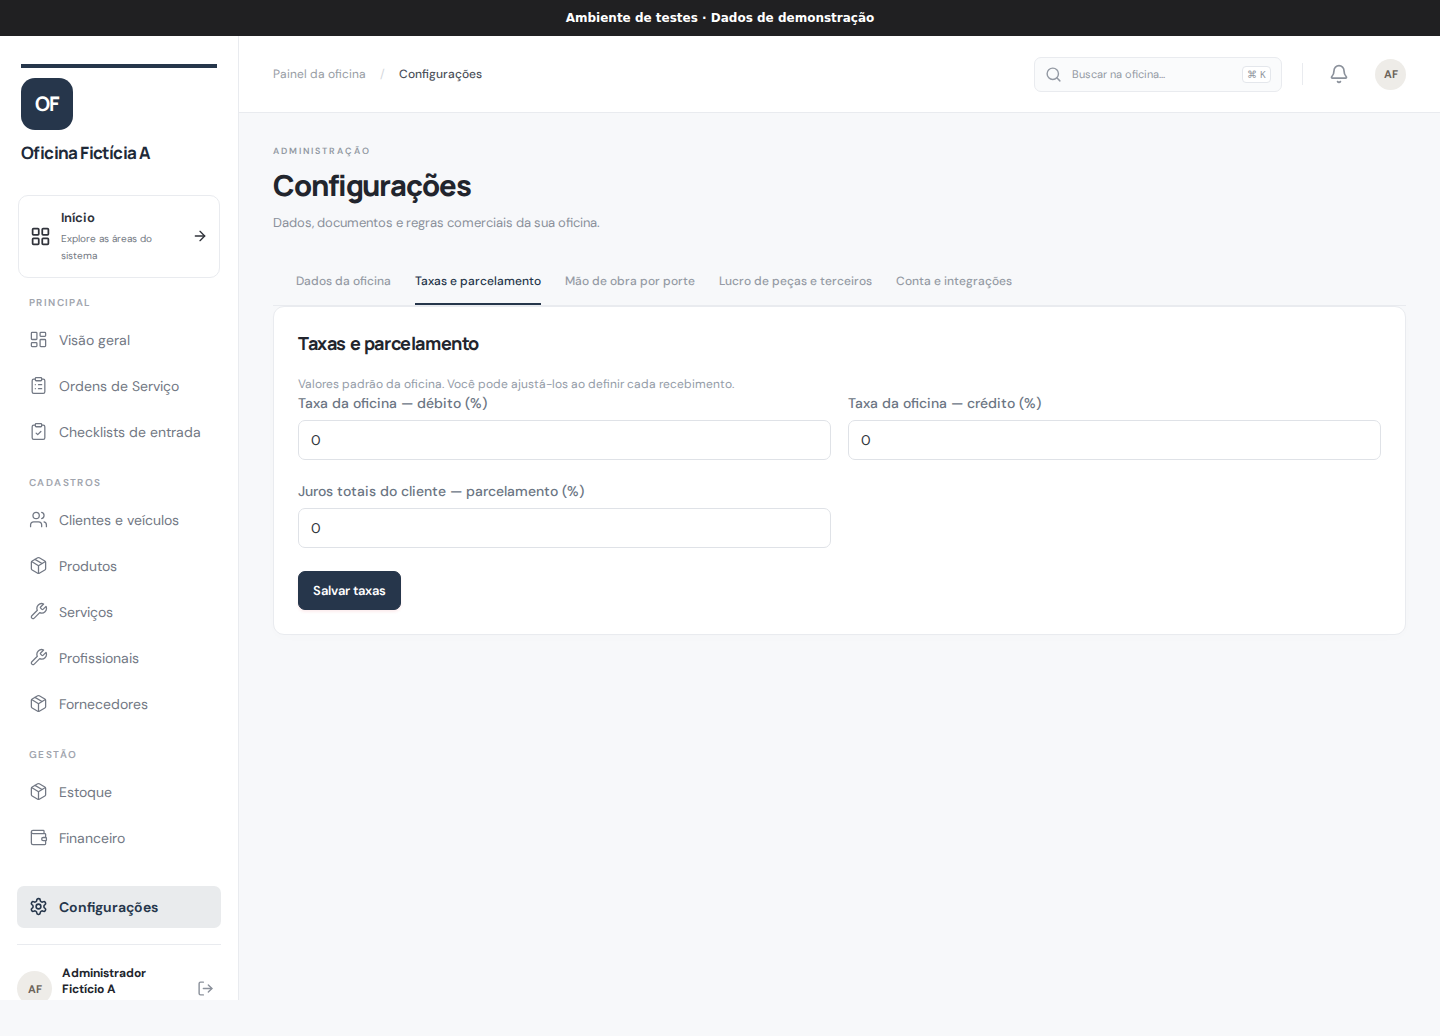
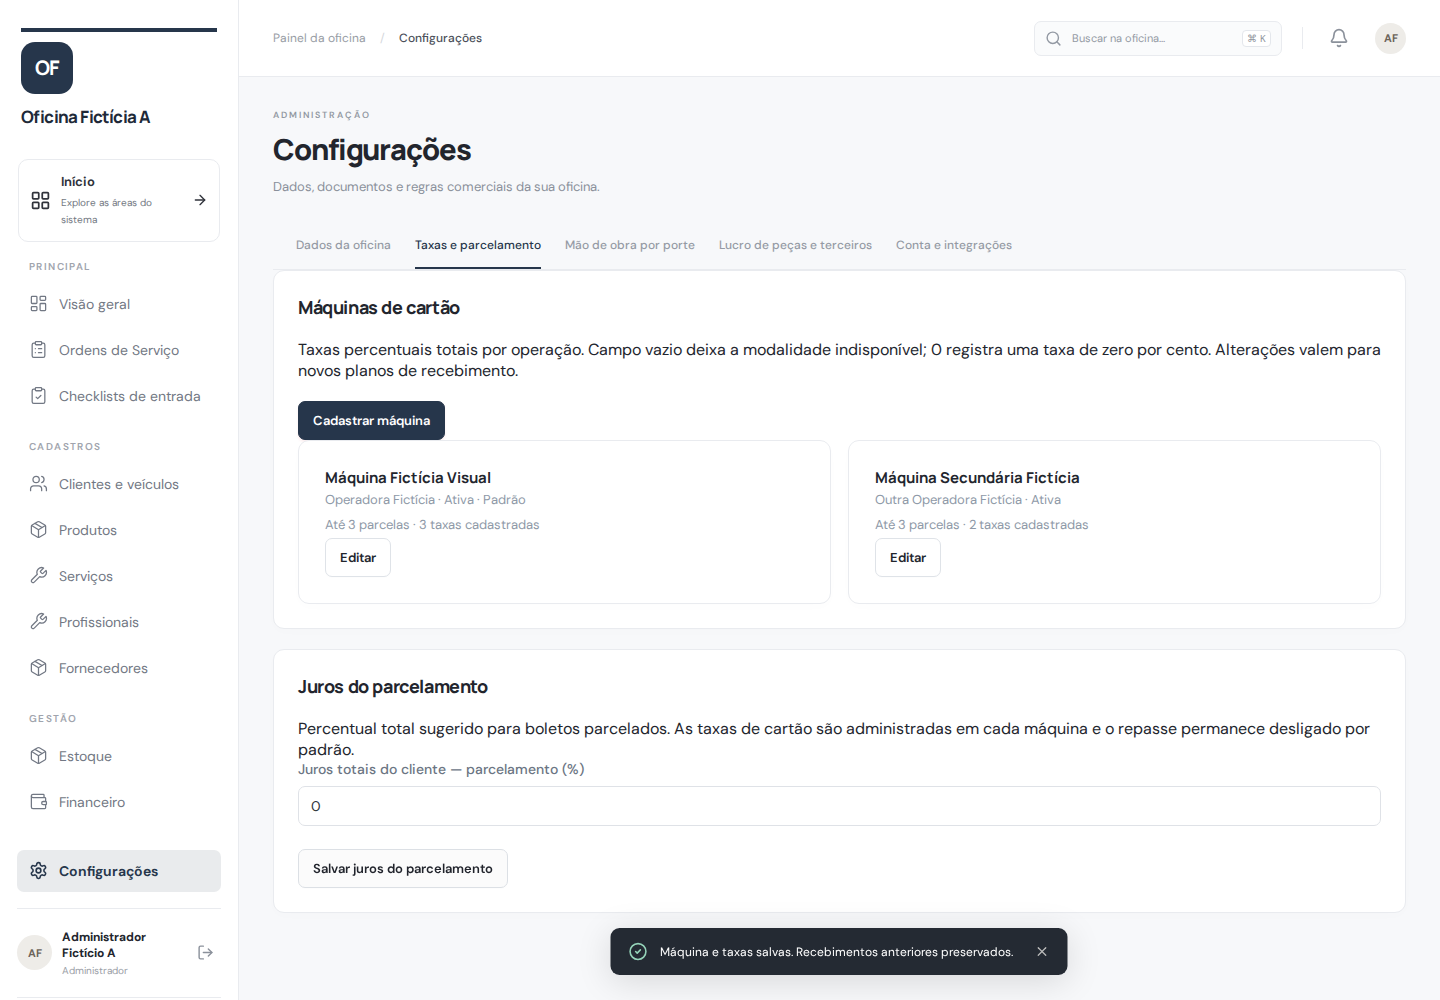
docs(ops-002): record reviewed desktop/mobile captures and development index

diff --git a/docs/mapeamento-visual/CHECKLIST.md b/docs/mapeamento-visual/CHECKLIST.md
@@ -36,7 +36,7 @@ Estados: capturada, pendente, bloqueada e não aplicável.
 | estoque-movimentacoes | Estoque | Movimentações de estoque — Nenhuma movimentação registrada na demonstração. | [`capturas/10-estoque/movimentacoes.png`](./capturas/10-estoque/movimentacoes.png) | capturada | 2026-10-22 | não registrado | Captura real com dados fictícios feita em 22/10/2026. O commit de origem não foi registrado; recaptura Playwright e atualização do commit estão pendentes. |
 | fornecedores-lista | Fornecedores | Fornecedores — Lista vazia na demonstração. | [`capturas/11-fornecedores/lista-fornecedores.png`](./capturas/11-fornecedores/lista-fornecedores.png) | capturada | 2026-10-22 | não registrado | Captura real com dados fictícios feita em 22/10/2026. O commit de origem não foi registrado; recaptura Playwright e atualização do commit estão pendentes. |
 | config-dados-oficina | Configurações da oficina | Dados da Oficina Fictícia A — Identificação, endereço efetivo, navegação por seções e prévia de documento. | [`capturas/14-configuracoes/dados-oficina-a.png`](./capturas/14-configuracoes/dados-oficina-a.png) | capturada | 2026-11-01 | 56b226764ee6420a52bdff3a41bd459113618460 | — |
-| config-geral-taxas | Configurações da oficina | Taxas e parcelamento — Taxas padrão, precedência por parcela e manutenção administrativa. | [`capturas/14-configuracoes/geral-e-taxas.png`](./capturas/14-configuracoes/geral-e-taxas.png) | capturada | 2026-11-01 | 56b226764ee6420a52bdff3a41bd459113618460 | — |
+| config-geral-taxas | Configurações da oficina | Taxas e parcelamento — Máquinas independentes, padrão da oficina e juros de parcelamento. | [`capturas/14-configuracoes/geral-e-taxas.png`](./capturas/14-configuracoes/geral-e-taxas.png) | capturada | 2026-11-01 | 26770cc4da2ccbf9de3620882b0a87066fdce927 | — |
 | config-mao-obra | Configurações da oficina | Mão de obra por porte — Valores de referência sem alteração. | [`capturas/14-configuracoes/mao-de-obra.png`](./capturas/14-configuracoes/mao-de-obra.png) | capturada | 2026-11-01 | 56b226764ee6420a52bdff3a41bd459113618460 | — |
 | config-lucro-pecas | Configurações da oficina | Lucro de peças e terceiros — Modos de precificação, regras de terceiros e simulador compartilhado. | [`capturas/14-configuracoes/lucro-pecas-terceiros.png`](./capturas/14-configuracoes/lucro-pecas-terceiros.png) | capturada | 2026-11-01 | 56b226764ee6420a52bdff3a41bd459113618460 | — |
 | login-painel-central | Painel Administrativo Central | Login do Painel Administrativo Central — Formulário vazio; nenhuma credencial ou código MFA aparece na captura. | [`capturas/17-painel-admin-central/login-admin-central.png`](./capturas/17-painel-admin-central/login-admin-central.png) | capturada | 2026-10-22 | não registrado | Captura real com dados fictícios feita em 22/10/2026. O commit de origem não foi registrado; recaptura Playwright e atualização do commit estão pendentes. |
@@ -72,7 +72,7 @@ Estados: capturada, pendente, bloqueada e não aplicável.
 | estoque-movimentacoes-desktop | Estoque | Movimentações de estoque — Nenhuma movimentação registrada na demonstração. | `capturas/10-estoque/movimentacoes-desktop.png` (previsto) | pendente | — | não registrado | Variante desktop ainda não foi gerada. Execute a captura Playwright em ambiente local de teste. |
 | fornecedores-lista-desktop | Fornecedores | Fornecedores — Lista vazia na demonstração. | `capturas/11-fornecedores/lista-fornecedores-desktop.png` (previsto) | pendente | — | não registrado | Variante desktop ainda não foi gerada. Execute a captura Playwright em ambiente local de teste. |
 | config-dados-oficina-desktop | Configurações da oficina | Dados da Oficina Fictícia A — Identificação, endereço efetivo, navegação por seções e prévia de documento. | [`capturas/14-configuracoes/dados-oficina-a-desktop.png`](./capturas/14-configuracoes/dados-oficina-a-desktop.png) | capturada | 2026-11-01 | 56b226764ee6420a52bdff3a41bd459113618460 | — |
-| config-geral-taxas-desktop | Configurações da oficina | Taxas e parcelamento — Taxas padrão, precedência por parcela e manutenção administrativa. | [`capturas/14-configuracoes/geral-e-taxas-desktop.png`](./capturas/14-configuracoes/geral-e-taxas-desktop.png) | capturada | 2026-11-01 | 56b226764ee6420a52bdff3a41bd459113618460 | — |
+| config-geral-taxas-desktop | Configurações da oficina | Taxas e parcelamento — Máquinas independentes, padrão da oficina e juros de parcelamento. | [`capturas/14-configuracoes/geral-e-taxas-desktop.png`](./capturas/14-configuracoes/geral-e-taxas-desktop.png) | capturada | 2026-11-01 | 26770cc4da2ccbf9de3620882b0a87066fdce927 | — |
 | config-mao-obra-desktop | Configurações da oficina | Mão de obra por porte — Valores de referência sem alteração. | [`capturas/14-configuracoes/mao-de-obra-desktop.png`](./capturas/14-configuracoes/mao-de-obra-desktop.png) | capturada | 2026-11-01 | 56b226764ee6420a52bdff3a41bd459113618460 | — |
 | config-lucro-pecas-desktop | Configurações da oficina | Lucro de peças e terceiros — Modos de precificação, regras de terceiros e simulador compartilhado. | [`capturas/14-configuracoes/lucro-pecas-terceiros-desktop.png`](./capturas/14-configuracoes/lucro-pecas-terceiros-desktop.png) | capturada | 2026-11-01 | 56b226764ee6420a52bdff3a41bd459113618460 | — |
 | cliente-novo | Clientes | Cadastro de cliente — Abrir, preencher e validar o formulário de cadastro com dados fictícios. | — | pendente | — | não registrado | A interação ainda não possui arquivo PNG correspondente; executar em navegador e dados de teste isolados. |
@@ -127,6 +127,10 @@ Estados: capturada, pendente, bloqueada e não aplicável.
 | adm0021-oficina-usuarios-desktop | Painel Administrativo Central | Proprietários e colaboradores — Interface real da ADM-002.1 em Chromium, com API fictícia interceptada; integração PostgreSQL validada separadamente. | [`capturas/17-painel-admin-central/adm0021-oficina-usuarios-desktop.png`](./capturas/17-painel-admin-central/adm0021-oficina-usuarios-desktop.png) | capturada | 2026-10-30 | fdbee764e0dfdcaeb7698131779d52a4a8a6a4a8 | Dados fictícios de navegador, sem credenciais, tokens ou acesso ao banco persistente. CI #273. |
 | config-conta-integracoes-desktop | Configurações da oficina | Conta e integrações — Responsabilidades administrativas e extensões disponíveis. | [`capturas/14-configuracoes/config-conta-integracoes-desktop.png`](./capturas/14-configuracoes/config-conta-integracoes-desktop.png) | capturada | 2026-11-01 | 56b226764ee6420a52bdff3a41bd459113618460 | — |
 | config-conta-integracoes-mobile | Configurações da oficina | Conta e integrações — Responsabilidades administrativas e extensões disponíveis. | [`capturas/14-configuracoes/config-conta-integracoes-mobile.png`](./capturas/14-configuracoes/config-conta-integracoes-mobile.png) | capturada | 2026-11-01 | 56b226764ee6420a52bdff3a41bd459113618460 | — |
+| ops002-machine-editor-desktop | Configurações da oficina | Máquina e taxas por parcela — Cadastro e edição de máquinas fictícias, taxa por modalidade/parcela e limite configurável. | [`capturas/14-configuracoes/ops002-machine-editor-desktop.png`](./capturas/14-configuracoes/ops002-machine-editor-desktop.png) | capturada | 2026-11-01 | 26770cc4da2ccbf9de3620882b0a87066fdce927 | — |
+| ops002-receipt-desktop | Financeiro | Recebimento com máquina e repasse — Plano fictício salvo e reaberto: seleção da máquina, repasse e líquido preservado, sem efetivar recebimento. | [`capturas/08-financeiro/ops002-receipt-desktop.png`](./capturas/08-financeiro/ops002-receipt-desktop.png) | capturada | 2026-11-01 | 26770cc4da2ccbf9de3620882b0a87066fdce927 | — |
+| ops002-machine-editor-mobile | Configurações da oficina | Máquina e taxas por parcela — Cadastro e edição de máquinas fictícias, taxa por modalidade/parcela e limite configurável. | [`capturas/14-configuracoes/ops002-machine-editor-mobile.png`](./capturas/14-configuracoes/ops002-machine-editor-mobile.png) | capturada | 2026-11-01 | 26770cc4da2ccbf9de3620882b0a87066fdce927 | — |
+| ops002-receipt-mobile | Financeiro | Recebimento com máquina e repasse — Plano fictício salvo e reaberto: seleção da máquina, repasse e líquido preservado, sem efetivar recebimento. | [`capturas/08-financeiro/ops002-receipt-mobile.png`](./capturas/08-financeiro/ops002-receipt-mobile.png) | capturada | 2026-11-01 | 26770cc4da2ccbf9de3620882b0a87066fdce927 | — |
 
 ## Fluxos
 
@@ -137,3 +141,4 @@ Estados: capturada, pendente, bloqueada e não aplicável.
 - **FL-005 Produtos → serviços → estoque** — pendente. As listas reais estão registradas; as gravações e movimentações não foram executadas.
 - **FL-006 Documentos e compartilhamento** — pendente. Sem token público de teste disponível na coleta inicial.
 - **FL-007 Transferência de dados** — pendente. Executar somente em ambiente descartável; nunca usar o Supabase de homologação compartilhado.
+- **FL-OPS002 Máquina → plano de recebimento** — capturada. Editar taxas, selecionar máquina, simular repasse, salvar e reabrir plano fictício no PostgreSQL temporário.

diff --git a/docs/mapeamento-visual/INDEX.md b/docs/mapeamento-visual/INDEX.md
@@ -330,6 +330,22 @@ Relatório sem vendas no período demonstrado.
 
 Estado: capturada · mobile · captura 2026-10-22 · commit de origem: não registrado · [arquivo completo](./capturas/08-financeiro/lucro-servicos.png)
 
+### Recebimento com máquina e repasse
+
+Plano fictício salvo e reaberto: seleção da máquina, repasse e líquido preservado, sem efetivar recebimento.
+
+[![Recebimento com máquina e repasse](./capturas/08-financeiro/ops002-receipt-desktop.png)](./capturas/08-financeiro/ops002-receipt-desktop.png)
+
+Estado: capturada · desktop · captura 2026-11-01 · commit de origem: 26770cc4da2ccbf9de3620882b0a87066fdce927 · [arquivo completo](./capturas/08-financeiro/ops002-receipt-desktop.png)
+
+### Recebimento com máquina e repasse
+
+Plano fictício salvo e reaberto: seleção da máquina, repasse e líquido preservado, sem efetivar recebimento.
+
+[![Recebimento com máquina e repasse](./capturas/08-financeiro/ops002-receipt-mobile.png)](./capturas/08-financeiro/ops002-receipt-mobile.png)
+
+Estado: capturada · mobile · captura 2026-11-01 · commit de origem: 26770cc4da2ccbf9de3620882b0a87066fdce927 · [arquivo completo](./capturas/08-financeiro/ops002-receipt-mobile.png)
+
 ## 09 — Cadastros e serviços
 
 Produtos, serviços, profissionais e tempos.
@@ -480,11 +496,11 @@ Estado: capturada · mobile · captura 2026-11-01 · commit de origem: 56b226764
 
 ### Taxas e parcelamento
 
-Taxas padrão, precedência por parcela e manutenção administrativa.
+Máquinas independentes, padrão da oficina e juros de parcelamento.
 
 [![Taxas e parcelamento](./capturas/14-configuracoes/geral-e-taxas.png)](./capturas/14-configuracoes/geral-e-taxas.png)
 
-Estado: capturada · mobile · captura 2026-11-01 · commit de origem: 56b226764ee6420a52bdff3a41bd459113618460 · [arquivo completo](./capturas/14-configuracoes/geral-e-taxas.png)
+Estado: capturada · mobile · captura 2026-11-01 · commit de origem: 26770cc4da2ccbf9de3620882b0a87066fdce927 · [arquivo completo](./capturas/14-configuracoes/geral-e-taxas.png)
 
 ### Mão de obra por porte
 
@@ -512,11 +528,11 @@ Estado: capturada · desktop · captura 2026-11-01 · commit de origem: 56b22676
 
 ### Taxas e parcelamento
 
-Taxas padrão, precedência por parcela e manutenção administrativa.
+Máquinas independentes, padrão da oficina e juros de parcelamento.
 
 [![Taxas e parcelamento](./capturas/14-configuracoes/geral-e-taxas-desktop.png)](./capturas/14-configuracoes/geral-e-taxas-desktop.png)
 
-Estado: capturada · desktop · captura 2026-11-01 · commit de origem: 56b226764ee6420a52bdff3a41bd459113618460 · [arquivo completo](./capturas/14-configuracoes/geral-e-taxas-desktop.png)
+Estado: capturada · desktop · captura 2026-11-01 · commit de origem: 26770cc4da2ccbf9de3620882b0a87066fdce927 · [arquivo completo](./capturas/14-configuracoes/geral-e-taxas-desktop.png)
 
 ### Mão de obra por porte
 
@@ -549,6 +565,22 @@ Responsabilidades administrativas e extensões disponíveis.
 [![Conta e integrações](./capturas/14-configuracoes/config-conta-integracoes-mobile.png)](./capturas/14-configuracoes/config-conta-integracoes-mobile.png)
 
 Estado: capturada · mobile · captura 2026-11-01 · commit de origem: 56b226764ee6420a52bdff3a41bd459113618460 · [arquivo completo](./capturas/14-configuracoes/config-conta-integracoes-mobile.png)
+
+### Máquina e taxas por parcela
+
+Cadastro e edição de máquinas fictícias, taxa por modalidade/parcela e limite configurável.
+
+[![Máquina e taxas por parcela](./capturas/14-configuracoes/ops002-machine-editor-desktop.png)](./capturas/14-configuracoes/ops002-machine-editor-desktop.png)
+
+Estado: capturada · desktop · captura 2026-11-01 · commit de origem: 26770cc4da2ccbf9de3620882b0a87066fdce927 · [arquivo completo](./capturas/14-configuracoes/ops002-machine-editor-desktop.png)
+
+### Máquina e taxas por parcela
+
+Cadastro e edição de máquinas fictícias, taxa por modalidade/parcela e limite configurável.
+
+[![Máquina e taxas por parcela](./capturas/14-configuracoes/ops002-machine-editor-mobile.png)](./capturas/14-configuracoes/ops002-machine-editor-mobile.png)
+
+Estado: capturada · mobile · captura 2026-11-01 · commit de origem: 26770cc4da2ccbf9de3620882b0a87066fdce927 · [arquivo completo](./capturas/14-configuracoes/ops002-machine-editor-mobile.png)
 
 ## 15 — Integrações e extensão Chrome
 
@@ -684,3 +716,12 @@ Pré-visualizar fixture fictícia e validar resultado sem gravar em ambiente rem
 2. Validação e confirmação da transferência (pendente)
 
 Estado: pendente — Executar somente em ambiente descartável; nunca usar o Supabase de homologação compartilhado.
+
+### FL-OPS002 — Máquina → plano de recebimento
+
+Editar taxas, selecionar máquina, simular repasse, salvar e reabrir plano fictício no PostgreSQL temporário.
+
+1. Máquina e taxas por parcela (capturada) — [imagem](./capturas/14-configuracoes/ops002-machine-editor-desktop.png)
+2. Recebimento com máquina e repasse (capturada) — [imagem](./capturas/08-financeiro/ops002-receipt-desktop.png)
+
+Estado: capturada

diff --git a/docs/OPS-002-maquinas-cartao.md b/docs/OPS-002-maquinas-cartao.md
@@ -28,4 +28,6 @@ Pacotes de transferência incluem máquinas e taxas e remapeiam os vínculos das
 
 `tests/cardMachines.test.ts` cobre cálculos, snapshots, isolamento, campos ausentes, taxa desatualizada e permissões de APIs. `tests/cardMachines.postgres.integration.ts` verifica backfill, precedência, histórico e RLS em PostgreSQL temporário. Regressões de caixa, pagamentos mistos, crédito, descontos e relatórios são mantidas.
 
-`capture-card-machines.mjs` valida seleção padrão, modalidade sem taxa, repasse, edição/salvamento e descarte de rascunho, com dados fictícios e URLs loopback. A biblioteca permanece exclusivamente em `docs/mapeamento-visual/` no GitHub privado.
+`capture-card-machines.mjs` valida seleção padrão, troca de máquina, modalidade sem taxa, repasse, edição/salvamento e descarte de rascunho, com dados fictícios e URLs loopback. Salva um plano de três parcelas no PostgreSQL descartável, confere máquina/taxa/repasse e líquido de R$ 100,00, e reabre a edição. `ops002-visual-cleanup.ts` remove somente as OS e o produto criados pela captura, após verificar oficina, identificação da fixture e ausência de pagamentos recebidos. A biblioteca permanece exclusivamente em `docs/mapeamento-visual/` no GitHub privado.
+
+Validação local: build e 299 testes gerais aprovados. O CI executa as mesmas verificações, capturas desktop/mobile, migração, RLS e integrações no PostgreSQL 17 temporário. As evidências e o resultado final ficam vinculados ao PR #82.

diff --git a/docs/mapeamento-visual/README.md b/docs/mapeamento-visual/README.md
@@ -23,4 +23,4 @@ Capturas que criem, editem ou finalizem registros só podem usar base PostgreSQL
 
 ## Coleta atual
 
-O acervo inclui 66 PNGs de telas reais. Consulte a data e o commit de cada entrada: as capturas originais de 22/10/2026 não registraram o commit e continuam sinalizadas. Capturas ADM-002.1 usam Chromium com respostas de API fictícias e não comprovam o backend; a integração PostgreSQL é testada separadamente no CI. Nenhuma credencial, token ou dado real deve aparecer nas imagens.
+O acervo inclui 70 PNGs de telas reais. Consulte a data e o commit de cada entrada: as capturas originais de 22/10/2026 não registraram o commit e continuam sinalizadas. Capturas ADM-002.1 usam Chromium com respostas de API fictícias e não comprovam o backend; a integração PostgreSQL é testada separadamente no CI. Nenhuma credencial, token ou dado real deve aparecer nas imagens.
